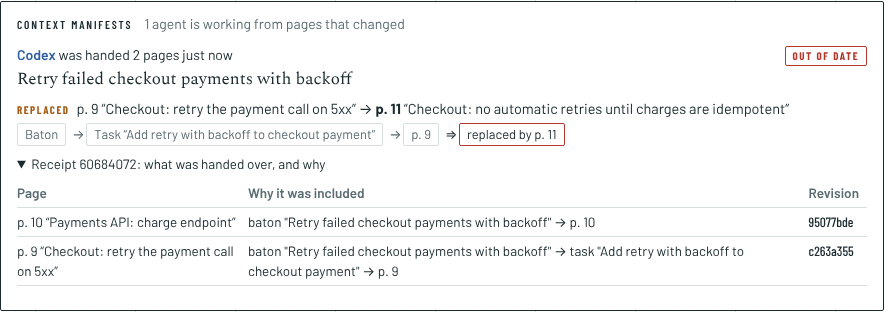
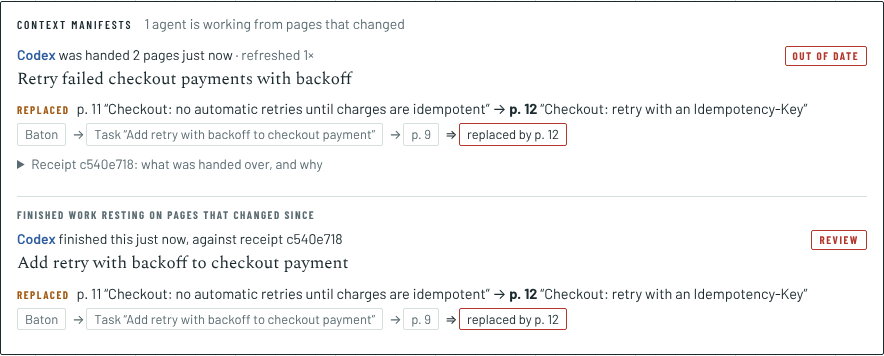
feat: visualise the graph behind a context receipt

diff --git a/app/components/home/receipt-graph.tsx b/app/components/home/receipt-graph.tsx
@@ -1,0 +1,183 @@
+"use client";
+
+import { useMemo, useState } from "react";
+import { useQuery } from "@tanstack/react-query";
+import { api } from "@/lib/fetcher";
+import { sourceLabel } from "@/lib/notes/source";
+import type { View, ViewEdge, ViewNode } from "@/lib/graph/view";
+
+// One receipt, drawn from what the graph returns for it (lib/graph/view.ts):
+// the agent, the receipt, the baton, the walk to the notes it reaches, and
+// those notes' replacement chains. Rows are steps from the agent, top to
+// bottom; dashed lines are what the receipt delivered. Hovering a node lights up its
+// relationships. Nothing is drawn that a query didn't return.
+
+const COL = 214;
+const ROW = 74;
+const W = 196;
+const H = 44;
+const PAD = 12;
+
+const clip = (s: string, n: number) => (s.length <= n ? s : `${s.slice(0, n - 1)}…`);
+
+function layout(view: View) {
+  // Rows: steps from the agent, ignoring what the receipt delivered (those
+  // would pull every note up next to the receipt).
+  const start = view.nodes.find((n) => n.kind === "Agent")!.id;
+  const near = new Map<string, string[]>();
+  for (const e of view.edges) {
+    if (e.type === "DELIVERED") continue;
+    near.set(e.from, [...(near.get(e.from) ?? []), e.to]);
+    near.set(e.to, [...(near.get(e.to) ?? []), e.from]);
+  }
+  const rank = new Map([[start, 0]]);
+  const queue = [start];
+  while (queue.length) {
+    const id = queue.shift()!;
+    for (const next of near.get(id) ?? []) {
+      if (!rank.has(next)) {
+        rank.set(next, rank.get(id)! + 1);
+        queue.push(next);
+      }
+    }
+  }
+  const maxRank = Math.max(0, ...rank.values());
+  for (const n of view.nodes) if (!rank.has(n.id)) rank.set(n.id, maxRank + 1);
+  const rows = new Map<number, ViewNode[]>();
+  for (const n of view.nodes) rows.set(rank.get(n.id)!, [...(rows.get(rank.get(n.id)!) ?? []), n]);
+  const pos = new Map<string, { x: number; y: number }>();
+  const widest = Math.max(...[...rows.values()].map((r) => r.length));
+  for (const [r, list] of rows) {
+    const offset = ((widest - list.length) * COL) / 2;
+    list.forEach((n, i) => pos.set(n.id, { x: PAD + offset + i * COL, y: PAD + r * ROW }));
+  }
+  const width = PAD * 2 + (widest - 1) * COL + W;
+  const height = PAD * 2 + Math.max(...rank.values()) * ROW + H;
+  return { pos, width, height };
+}
+
+function edgePath(a: { x: number; y: number }, b: { x: number; y: number }) {
+  if (a.y === b.y) {
+    // Same row: side to side.
+    const right = b.x > a.x;
+    const x1 = right ? a.x + W : a.x;
+    const x2 = right ? b.x : b.x + W;
+    return `M ${x1} ${a.y + H / 2} L ${x2} ${b.y + H / 2}`;
+  }
+  const down = b.y > a.y;
+  const x1 = a.x + W / 2;
+  const x2 = b.x + W / 2;
+  const y1 = down ? a.y + H : a.y;
+  const y2 = down ? b.y : b.y + H;
+  const bend = Math.max(24, Math.abs(y2 - y1) / 2);
+  return `M ${x1} ${y1} C ${x1} ${y1 + (down ? bend : -bend)}, ${x2} ${y2 - (down ? bend : -bend)}, ${x2} ${y2}`;
+}
+
+const edgeClass = (e: ViewEdge) =>
+  e.type === "DELIVERED"
+    ? "lk-graph-edge-delivered"
+    : e.type === "SUPERSEDES"
+      ? e.accepted
+        ? "lk-graph-edge-replaced"
+        : "lk-graph-edge-proposed"
+      : "lk-graph-edge";
+
+const edgeLabel = (e: ViewEdge) => (e.type === "SUPERSEDES" ? (e.accepted ? "replaces" : "proposes to replace") : e.type.toLowerCase().replace("_", " "));
+
+function nodeText(n: ViewNode): [string, string] {
+  switch (n.kind) {
+    case "Agent":
+      return [sourceLabel(n.label), "agent"];
+    case "Receipt":
+      return [`Receipt ${n.id.slice(0, 8)}`, "what was handed over"];
+    case "Handoff":
+      return [clip(n.label, 27), "baton"];
+    case "Task":
+      return [clip(n.label, 27), "task"];
+    default:
+      return [clip(n.label, 27), `${n.page != null ? `p. ${n.page}` : "note"}${n.witnessed === false ? " · not witnessed" : ""}${n.deleted ? " · deleted" : ""}`];
+  }
+}
+
+export function ReceiptGraph({ receiptId }: { receiptId: string }) {
+  const { data, error } = useQuery({
+    queryKey: ["manifest-graph", receiptId],
+    queryFn: () => api.get<View>(`/api/manifest/graph?receipt=${receiptId}`),
+  });
+  const [hover, setHover] = useState<string | null>(null);
+  const laid = useMemo(() => (data ? layout(data) : null), [data]);
+  if (error) return <p className="text-sm text-muted-foreground">The graph can&apos;t be drawn right now.</p>;
+  if (!data || !laid) return <p className="text-sm text-muted-foreground">Reading the graph…</p>;
+  const replaced = new Set(data.edges.filter((e) => e.type === "SUPERSEDES" && e.accepted).map((e) => e.to));
+  const delivered = new Set(data.delivered);
+  const lit = (e: ViewEdge) => hover !== null && (e.from === hover || e.to === hover);
+  return (
+    <figure className="lk-graph">
+      <div className="lk-graph-scroll">
+        <svg
+          viewBox={`0 0 ${laid.width} ${laid.height}`}
+          // Scales down to the panel; below 420px wide it scrolls instead of shrinking further.
+          style={{ width: "100%", maxWidth: laid.width, minWidth: Math.min(laid.width, 420), height: "auto" }}
+          role="img"
+          aria-label={`The graph behind receipt ${receiptId.slice(0, 8)}: ${data.nodes.length} nodes, ${data.edges.length} relationships`}
+        >
+          <defs>
+            <marker id="lk-arrow" viewBox="0 0 8 8" refX="7" refY="4" markerWidth="7" markerHeight="7" orient="auto-start-reverse">
+              <path d="M0,0 L8,4 L0,8 z" className="lk-graph-arrow" />
+            </marker>
+          </defs>
+          {data.edges.map((e) => {
+            const a = laid.pos.get(e.from);
+            const b = laid.pos.get(e.to);
+            if (!a || !b) return null;
+            return (
+              <path
+                key={`${e.type}:${e.from}:${e.to}`}
+                d={edgePath(a, b)}
+                className={`${edgeClass(e)}${lit(e) ? " lk-graph-lit" : ""}`}
+                markerEnd="url(#lk-arrow)"
+              >
+                <title>{edgeLabel(e)}</title>
+              </path>
+            );
+          })}
+          {data.nodes.map((n) => {
+            const p = laid.pos.get(n.id)!;
+            const [title, sub] = nodeText(n);
+            const cls = [
+              "lk-graph-node",
+              `lk-graph-${n.kind.toLowerCase()}`,
+              delivered.has(n.id) ? "lk-graph-delivered" : "",
+              replaced.has(n.id) ? "lk-graph-retired" : "",
+              n.kind === "Note" && !replaced.has(n.id) && n.witnessed ? "lk-graph-current" : "",
+            ].join(" ");
+            return (
+              <g key={n.id} transform={`translate(${p.x} ${p.y})`} className={cls} onMouseEnter={() => setHover(n.id)} onMouseLeave={() => setHover(null)}>
+                <rect width={W} height={H} rx={2} />
+                <text x={8} y={18} className="lk-graph-title">
+                  {title}
+                </text>
+                <text x={8} y={34} className="lk-graph-sub">
+                  {sub}
+                </text>
+                <title>{`${n.kind}: ${n.label}`}</title>
+              </g>
+            );
+          })}
+        </svg>
+      </div>
+      <figcaption className="lk-graph-legend">
+        <span>
+          <i className="lk-graph-key lk-graph-key-delivered" /> delivered in this receipt
+        </span>
+        <span>
+          <i className="lk-graph-key lk-graph-key-replaced" /> replaces (witnessed)
+        </span>
+        <span>
+          <i className="lk-graph-key lk-graph-key-proposed" /> proposed, not witnessed
+        </span>
+        <span>Faded: a page a witnessed replacement retired.</span>
+      </figcaption>
+    </figure>
+  );
+}

diff --git a/lib/graph/view.ts b/lib/graph/view.ts
@@ -1,0 +1,71 @@
+import type { Graph } from "falkordb";
+import { read } from "./client";
+import { CHAIN, CONTEXT_HOPS } from "./context";
+
+// A receipt as a picture: exactly the nodes and relationships the graph
+// returns for it, nothing drawn that a query didn't return. The agent that
+// received it, the receipt and its baton, the walk from the baton to the
+// notes it reaches, those notes' replacement chains (witnessed or proposed),
+// and which notes the receipt delivered.
+
+export type ViewNode = { id: string; kind: string; label: string; page: number | null; witnessed: boolean | null; deleted: boolean | null };
+export type ViewEdge = { type: string; from: string; to: string; accepted: boolean | null };
+export type View = { nodes: ViewNode[]; edges: ViewEdge[]; delivered: string[] };
+
+const NODE = `{id: x.id, kind: labels(x)[0], label: coalesce(x.title, x.goal, x.name, x.id), page: x.page, witnessed: x.witnessed, deleted: x.deleted}`;
+const EDGE = `{type: type(e), from: startNode(e).id, to: endNode(e).id, accepted: e.accepted}`;
+
+export async function receiptView(graph: Graph, receiptId: string): Promise<View | null> {
+  const [head] = await read<{ agent: string; handoff: ViewNode; receipt: ViewNode; delivered: string[] }>(
+    graph,
+    `MATCH (a:Agent)-[:RECEIVED]->(r:Receipt {id: $id})-[:FOR]->(h:Handoff)
+     OPTIONAL MATCH (r)-[:DELIVERED]->(d:Note)
+     RETURN a.name AS agent,
+            {id: h.id, kind: 'Handoff', label: h.goal, page: null, witnessed: null, deleted: null} AS handoff,
+            {id: r.id, kind: 'Receipt', label: 'receipt', page: null, witnessed: null, deleted: null} AS receipt,
+            collect(d.id) AS delivered`,
+    { id: receiptId },
+  );
+  if (!head) return null;
+  const nodes = new Map<string, ViewNode>();
+  const edges = new Map<string, ViewEdge>();
+  const addEdge = (e: ViewEdge) => edges.set(`${e.type}:${e.from}:${e.to}`, e);
+  const agentId = `agent:${head.agent}`;
+  nodes.set(agentId, { id: agentId, kind: "Agent", label: head.agent, page: null, witnessed: null, deleted: null });
+  nodes.set(head.receipt.id, head.receipt);
+  nodes.set(head.handoff.id, head.handoff);
+  addEdge({ type: "RECEIVED", from: agentId, to: head.receipt.id, accepted: null });
+  addEdge({ type: "FOR", from: head.receipt.id, to: head.handoff.id, accepted: null });
+
+  const walks = await read<{ ns: ViewNode[]; es: ViewEdge[] }>(
+    graph,
+    `MATCH p = (h:Handoff {id: $h})-[:PINS|ABOUT|FOR|DEPENDS_ON*1..${CONTEXT_HOPS}]->(n:Note)
+     RETURN [x IN nodes(p) | ${NODE}] AS ns, [e IN relationships(p) | ${EDGE}] AS es`,
+    { h: head.handoff.id },
+  );
+  for (const w of walks) {
+    for (const n of w.ns) nodes.set(n.id, n);
+    for (const e of w.es) addEdge(e);
+  }
+  const reached = [...nodes.values()].filter((n) => n.kind === "Note").map((n) => n.id);
+  const ids = [...new Set([...reached, ...head.delivered])];
+  const chains = await read<{ ns: ViewNode[]; es: ViewEdge[] }>(
+    graph,
+    `UNWIND $ids AS id
+     MATCH p = (n:Note {id: id})<-[:SUPERSEDES*1..${CHAIN}]-(m:Note)
+     RETURN [x IN nodes(p) | ${NODE}] AS ns, [e IN relationships(p) | ${EDGE}] AS es`,
+    { ids },
+  );
+  for (const c of chains) {
+    for (const n of c.ns) nodes.set(n.id, n);
+    for (const e of c.es) addEdge(e);
+  }
+  // A delivered note the walk no longer reaches (replaced since) is still drawn.
+  const missing = head.delivered.filter((id) => !nodes.has(id));
+  if (missing.length > 0) {
+    const rows = await read<{ n: ViewNode }>(graph, `UNWIND $ids AS id MATCH (x:Note {id: id}) RETURN ${NODE} AS n`, { ids: missing });
+    for (const { n } of rows) nodes.set(n.id, n);
+  }
+  for (const id of head.delivered) addEdge({ type: "DELIVERED", from: head.receipt.id, to: id, accepted: null });
+  return { nodes: [...nodes.values()], edges: [...edges.values()], delivered: head.delivered };
+}

diff --git a/app/globals.css b/app/globals.css
@@ -639,6 +639,30 @@
   .lk-manifest-evidence table { width: 100%; margin-top: 6px; border-collapse: collapse; }
   .lk-manifest-evidence th { text-align: left; font-weight: 600; color: var(--muted-foreground); padding: 3px 8px 3px 0; border-bottom: 1px solid var(--border); }
   .lk-manifest-evidence td { padding: 4px 8px 4px 0; vertical-align: top; border-bottom: 1px solid var(--border); overflow-wrap: anywhere; }
+  /* A receipt's graph (receipt-graph.tsx). */
+  .lk-graph { margin-top: 8px; }
+  .lk-graph-scroll { overflow-x: auto; border: 1px solid var(--border); border-radius: 2px; background: var(--background); }
+  .lk-graph-scroll svg { margin: 0 auto; }
+  .lk-graph svg { display: block; }
+  .lk-graph-node rect { fill: var(--card, var(--background)); stroke: var(--border); stroke-width: 1.2; }
+  .lk-graph-title { font-size: 12.5px; font-weight: 600; fill: var(--foreground); }
+  .lk-graph-sub { font-size: 11px; fill: var(--muted-foreground); }
+  .lk-graph-agent rect, .lk-graph-receipt rect { stroke: var(--lk-live); }
+  .lk-graph-delivered rect { stroke: var(--lk-live); stroke-width: 2; }
+  .lk-graph-current rect { stroke: var(--lk-ok); stroke-width: 2; }
+  .lk-graph-retired { opacity: 0.5; }
+  .lk-graph-edge, .lk-graph-edge-delivered, .lk-graph-edge-replaced, .lk-graph-edge-proposed { fill: none; stroke-width: 1.4; transition: stroke-width var(--lk-dur-1) var(--lk-ease-settle); }
+  .lk-graph-edge { stroke: var(--muted-foreground); opacity: 0.7; }
+  .lk-graph-edge-delivered { stroke: var(--lk-live); stroke-dasharray: 5 4; }
+  .lk-graph-edge-replaced { stroke: var(--lk-stamp); stroke-width: 2; }
+  .lk-graph-edge-proposed { stroke: var(--lk-warn); stroke-dasharray: 3 3; }
+  .lk-graph-lit { stroke-width: 3.2; opacity: 1; }
+  .lk-graph-arrow { fill: var(--muted-foreground); }
+  .lk-graph-legend { display: flex; flex-wrap: wrap; gap: 4px 16px; margin-top: 6px; font-size: 12.5px; color: var(--muted-foreground); }
+  .lk-graph-key { display: inline-block; width: 22px; height: 0; margin-right: 4px; vertical-align: middle; border-top: 2px solid; }
+  .lk-graph-key-delivered { border-color: var(--lk-live); border-top-style: dashed; }
+  .lk-graph-key-replaced { border-color: var(--lk-stamp); }
+  .lk-graph-key-proposed { border-color: var(--lk-warn); border-top-style: dotted; }
   .lk-brain-input {
     flex: 1; min-width: 0; padding: 4px 8px; font-size: 14.5px; border: 1px solid var(--border); border-radius: 2px;
     background: var(--background); color: var(--foreground);

diff --git a/app/components/home/manifest-card.tsx b/app/components/home/manifest-card.tsx
@@ -1,6 +1,8 @@
 "use client";
 
+import { useState } from "react";
 import { useAgo } from "@/app/components/clock";
+import { ReceiptGraph } from "./receipt-graph";
 import { useManifests, type ManifestRow, type OutcomeRow } from "@/hooks/useHandoffs";
 import { sourceLabel } from "@/lib/notes/source";
 
@@ -73,6 +75,17 @@ function Path({ via, then }: { via: Extract<Change, { now: unknown }>["now"]["vi
   );
 }
 
+/** The receipt's graph, drawn once opened. */
+function GraphToggle({ receiptId }: { receiptId: string }) {
+  const [open, setOpen] = useState(false);
+  return (
+    <details className="lk-manifest-evidence" onToggle={(e) => setOpen(e.currentTarget.open)}>
+      <summary>Show the graph behind it</summary>
+      {open ? <ReceiptGraph receiptId={receiptId} /> : null}
+    </details>
+  );
+}
+
 function Receipt({ m }: { m: ManifestRow }) {
   const ago = useAgo();
   const stale = m.changes.length > 0;
@@ -95,6 +108,7 @@ function Receipt({ m }: { m: ManifestRow }) {
           ))}
         </ul>
       ) : null}
+      <GraphToggle receiptId={m.receipt.id} />
       <details className="lk-manifest-evidence">
         <summary>Receipt {m.receipt.id.slice(0, 8)}: what was handed over, and why</summary>
         <table>

diff --git a/app/api/manifest/graph/route.ts b/app/api/manifest/graph/route.ts
@@ -1,0 +1,19 @@
+import { type NextRequest, NextResponse } from "next/server";
+import { getUserId } from "@/lib/auth";
+import { GraphUnavailable, viewReceipt } from "@/lib/graph/manifest";
+
+// GET /api/manifest/graph?receipt=… - the nodes and relationships behind one
+// receipt, as the graph returns them, for drawing.
+export async function GET(request: NextRequest) {
+  const userId = await getUserId(request);
+  if (!userId) return NextResponse.json({ error: "Unauthorized" }, { status: 401 });
+  const id = request.nextUrl.searchParams.get("receipt") ?? "";
+  if (!/^[0-9a-f-]{36}$/.test(id)) return NextResponse.json({ error: "Give a receipt id" }, { status: 400 });
+  try {
+    const view = await viewReceipt(userId, id);
+    return view ? NextResponse.json(view) : NextResponse.json({ error: "Not found" }, { status: 404 });
+  } catch (e) {
+    if (!(e instanceof GraphUnavailable)) console.error("Reading a receipt's graph failed", e);
+    return NextResponse.json({ error: "The graph can't be reached" }, { status: 503 });
+  }
+}

diff --git a/lib/graph/manifest.ts b/lib/graph/manifest.ts
@@ -7,6 +7,7 @@ import {
 } from "./context";
 import { projectTask, syncedGraph } from "./project";
 import { keystones, whoKnows } from "./brain";
+import { receiptView } from "./view";
 
 // The manifest: what a baton's next agent is handed, worked out in the graph
 // and kept as a receipt, then checked against the notebook as it moves on.
@@ -139,4 +140,9 @@ export async function knows(userId: string, find: { topic?: string; file?: strin
 /** The decisions the most work rests on: see keystones. */
 export async function keystoneDecisions(userId: string, limit?: number) {
   return keystones(await syncedGraph(userId), limit);
+}
+
+/** A receipt as nodes and relationships, for drawing: see receiptView. */
+export async function viewReceipt(userId: string, receiptId: string) {
+  return receiptView(await syncedGraph(userId), receiptId);
 }
